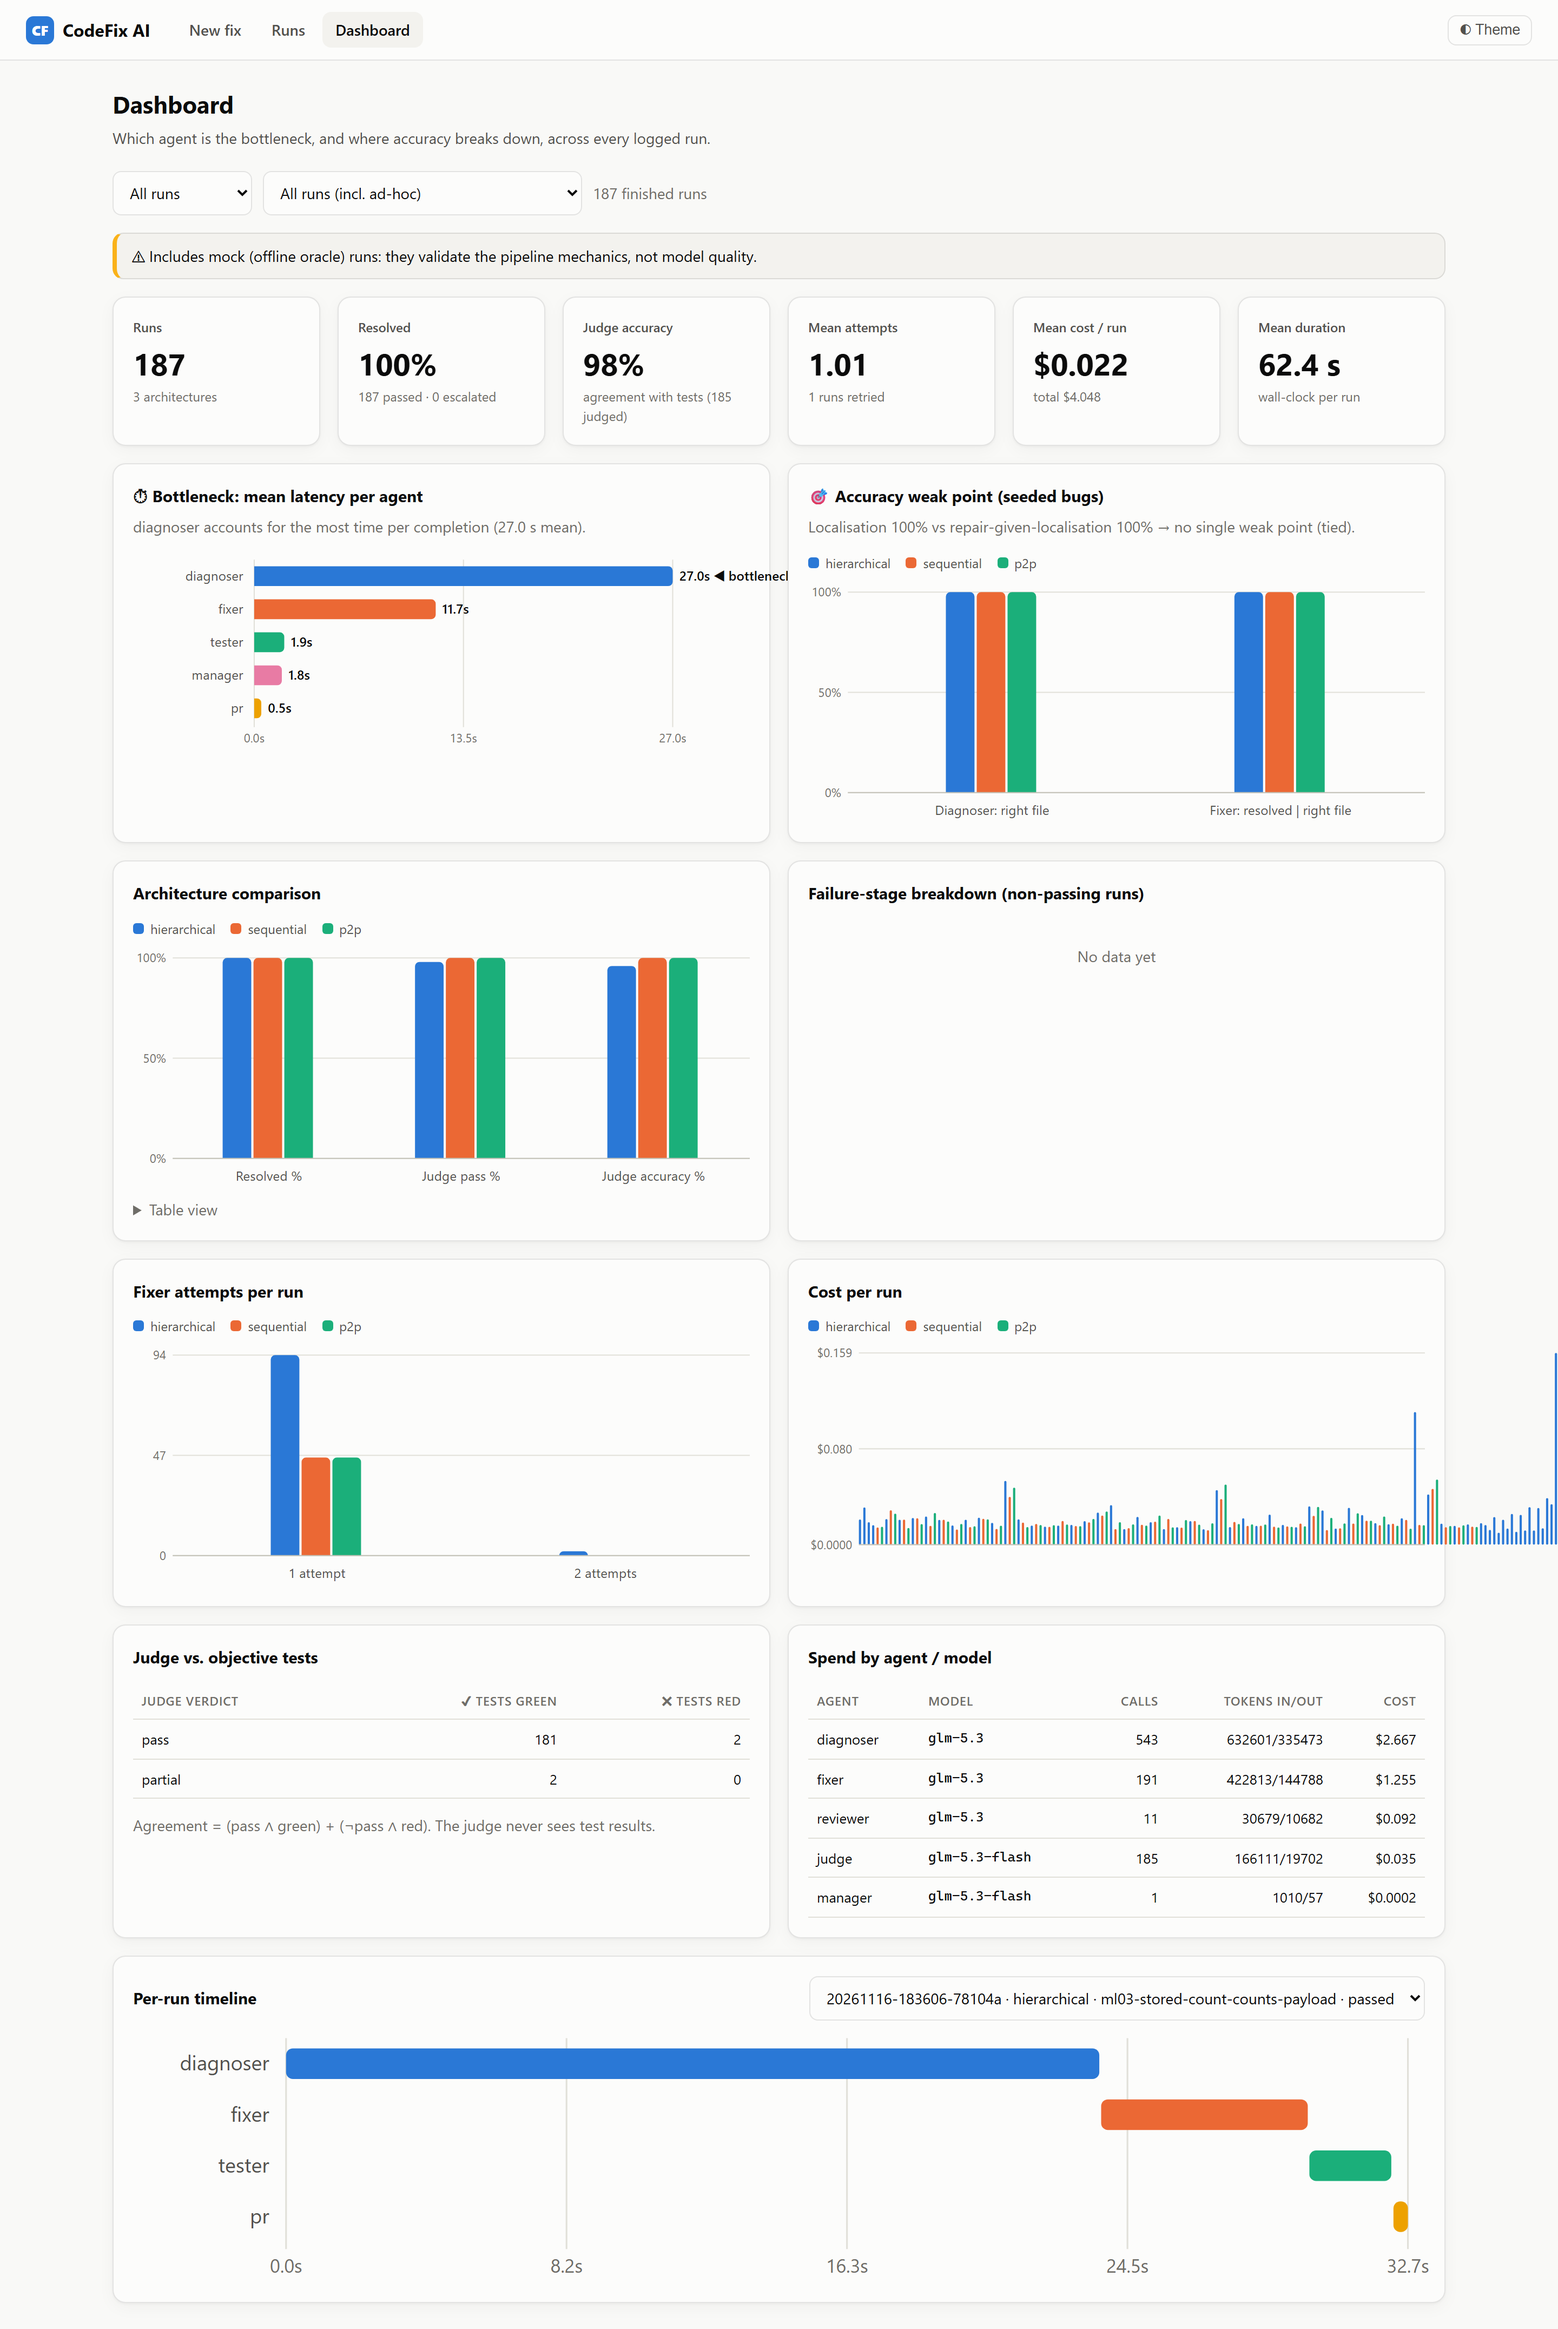
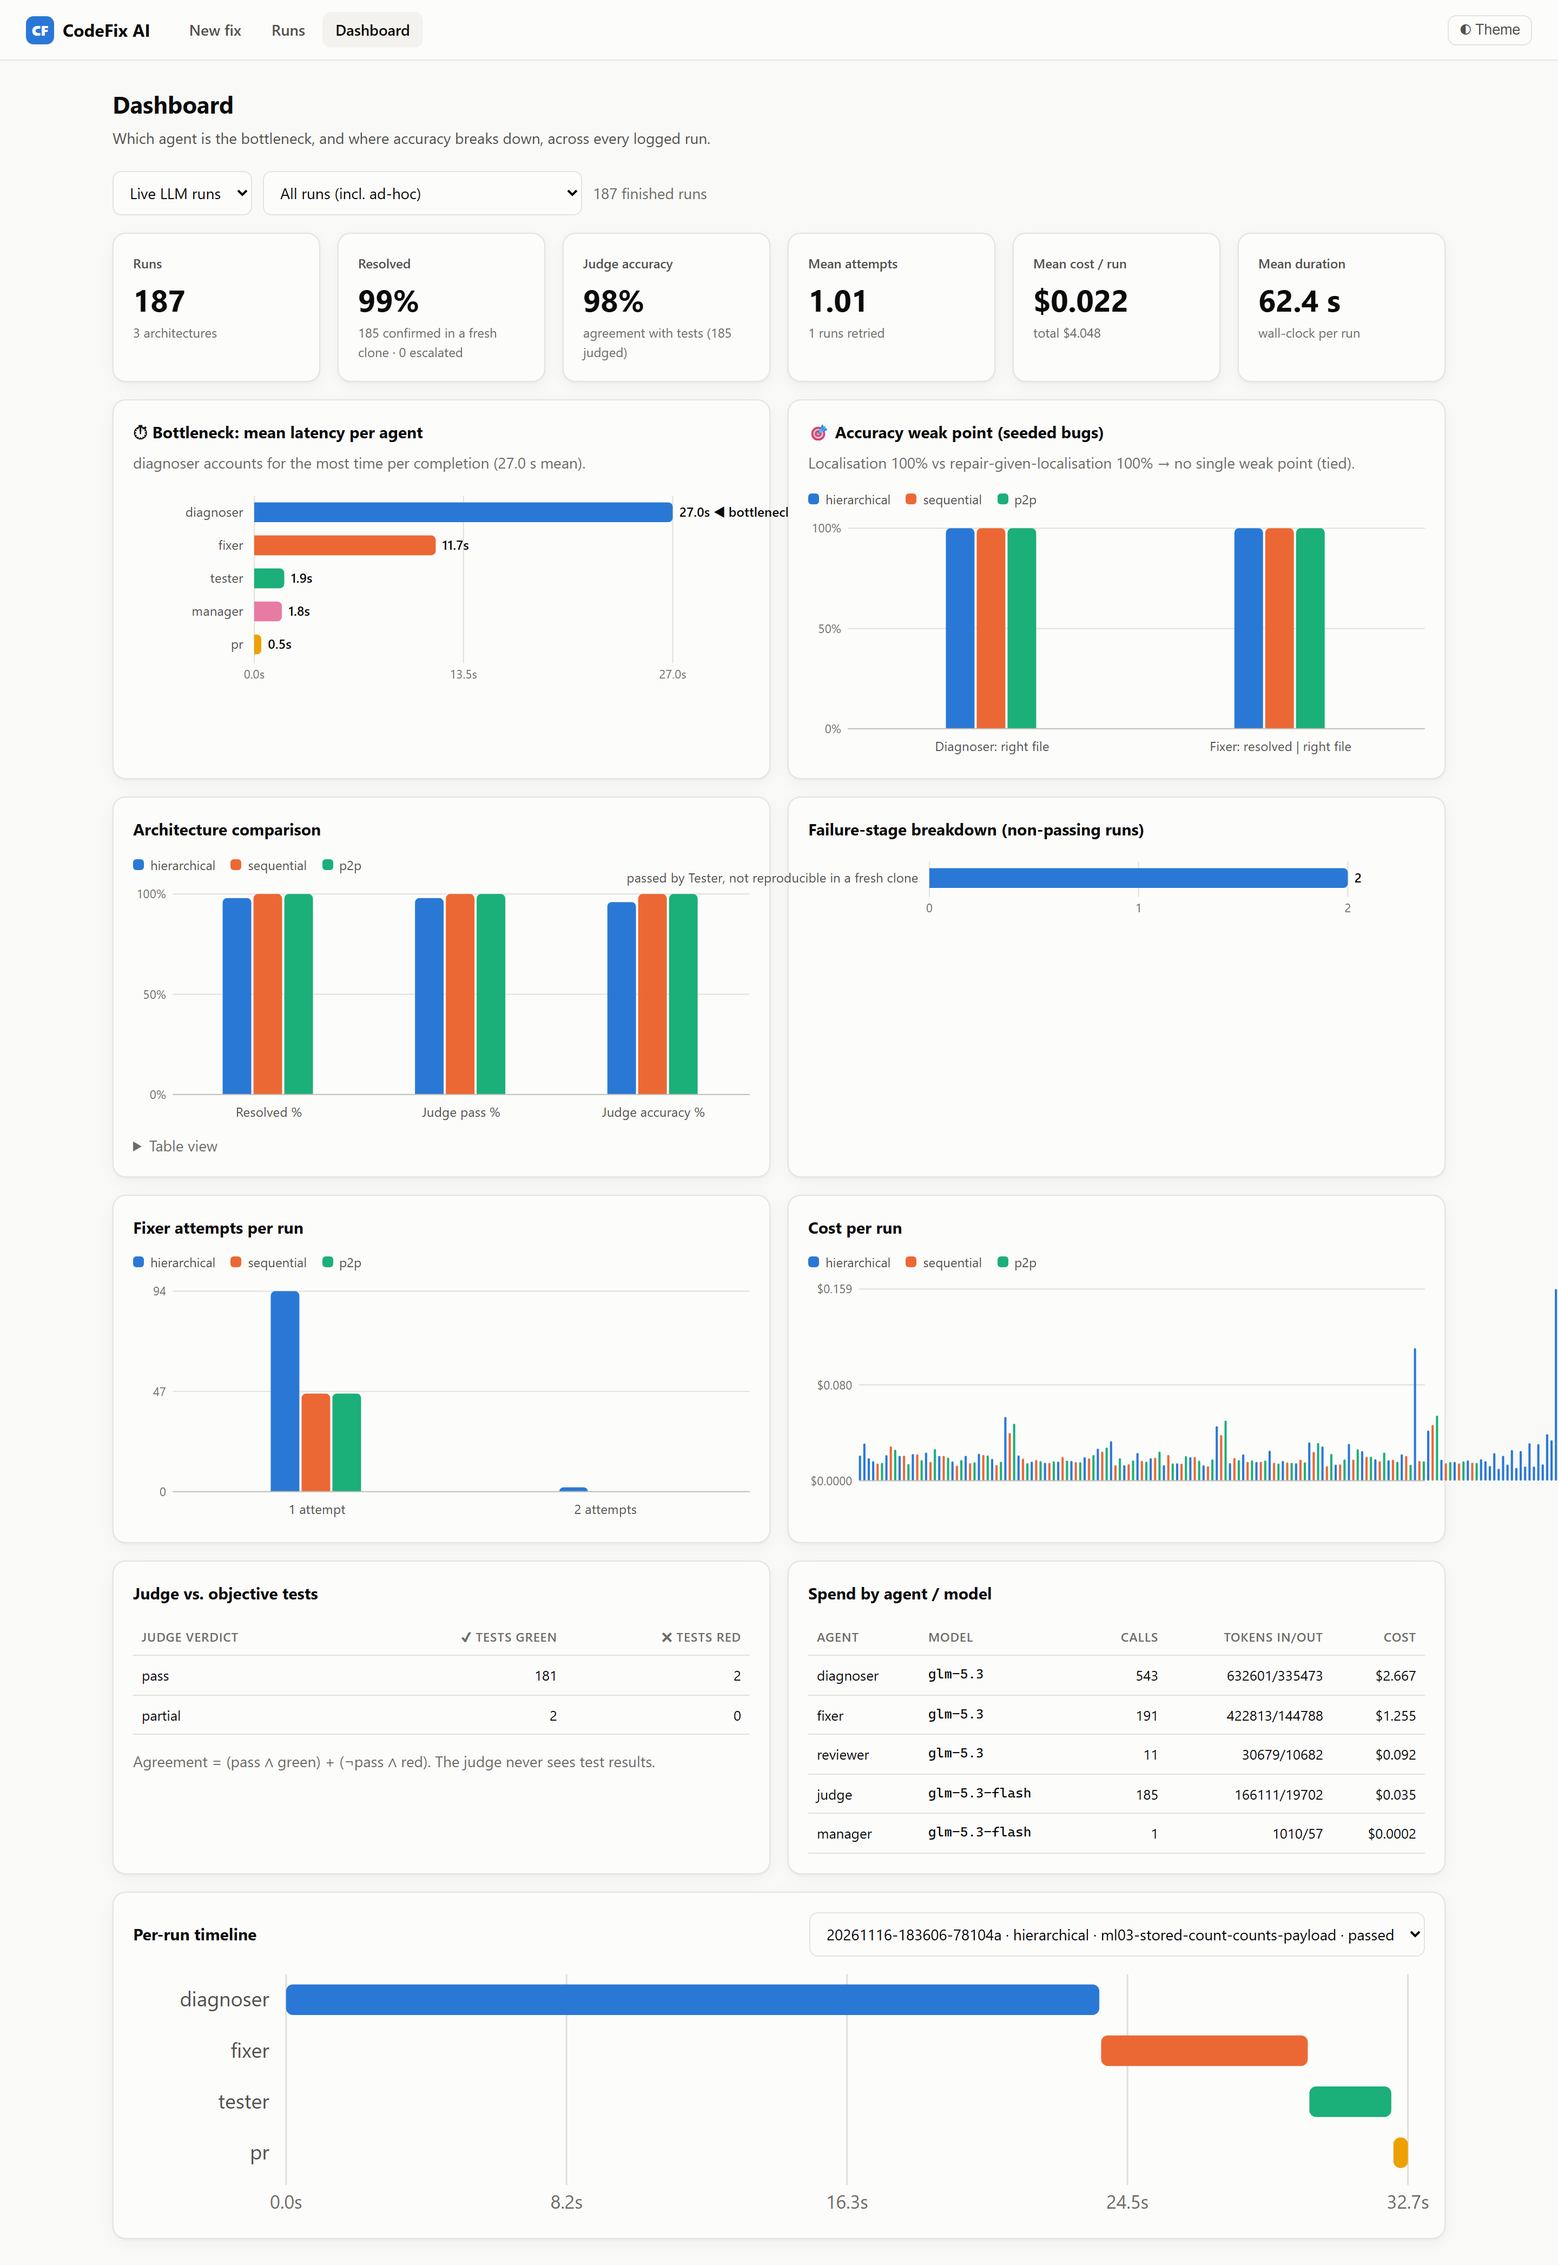
Dashboard: say which grader confirmed each resolved run
The resolved hint read "185 confirmed in a fresh clone", but only 183 were.
The other 2 are end-to-end demo runs that were never re-graded and count as
resolved on the Tester's verdict alone. Claiming all 185 as fresh-clone
confirmations is the same overstatement the previous commit removed from the
headline, and it would have contradicted the report's 183 in the very figure
that illustrates it.

Now reads "183 confirmed in a fresh clone - 2 by Tester only - 0 escalated".
Checked against the live /api/dashboard data before deploying.

diff --git a/web/ui/dashboard.html b/web/ui/dashboard.html
@@ -79,7 +79,7 @@ const isResolved = r => (r.objective_pass === null || r.objective_pass === undef
   const judged = runs.filter(r => r.agreement != null);
   $('#kpis').innerHTML = [
     kpi('Runs', runs.length, `${archs.length} architectures`),
-    kpi('Resolved', `${pct(passed, runs.length)}%`, `${passed} confirmed in a fresh clone · ${runs.filter(r => r.outcome === 'escalated').length} escalated`),
+    kpi('Resolved', `${pct(passed, runs.length)}%`, `${runs.filter(r => Number(r.objective_pass) === 1).length} confirmed in a fresh clone` + (runs.some(r => r.objective_pass == null && r.outcome === 'passed') ? ` · ${runs.filter(r => r.objective_pass == null && r.outcome === 'passed').length} by Tester only` : '') + ` · ${runs.filter(r => r.outcome === 'escalated').length} escalated`),
     kpi('Judge accuracy', judged.length ? `${pct(judged.filter(r => r.agreement).length, judged.length)}%` : '–', `agreement with tests (${judged.length} judged)`),
     kpi('Mean attempts', mean(runs.map(r => r.attempts)).toFixed(2), `${runs.filter(r => r.attempts > 1).length} runs retried`),
     kpi('Mean cost / run', fmtUsd(mean(runs.map(r => r.cost_usd))), `total ${fmtUsd(runs.reduce((a, r) => a + r.cost_usd, 0))}`),
